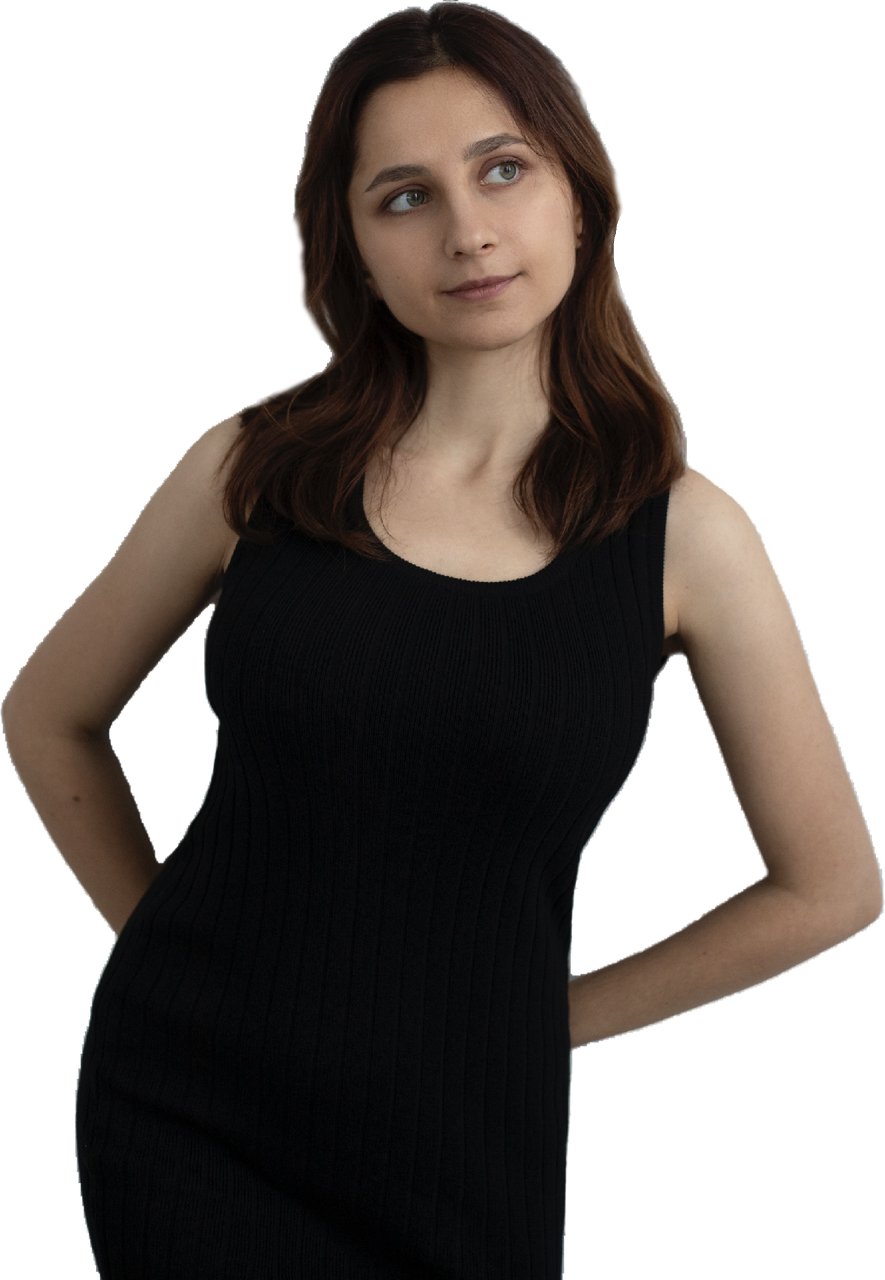
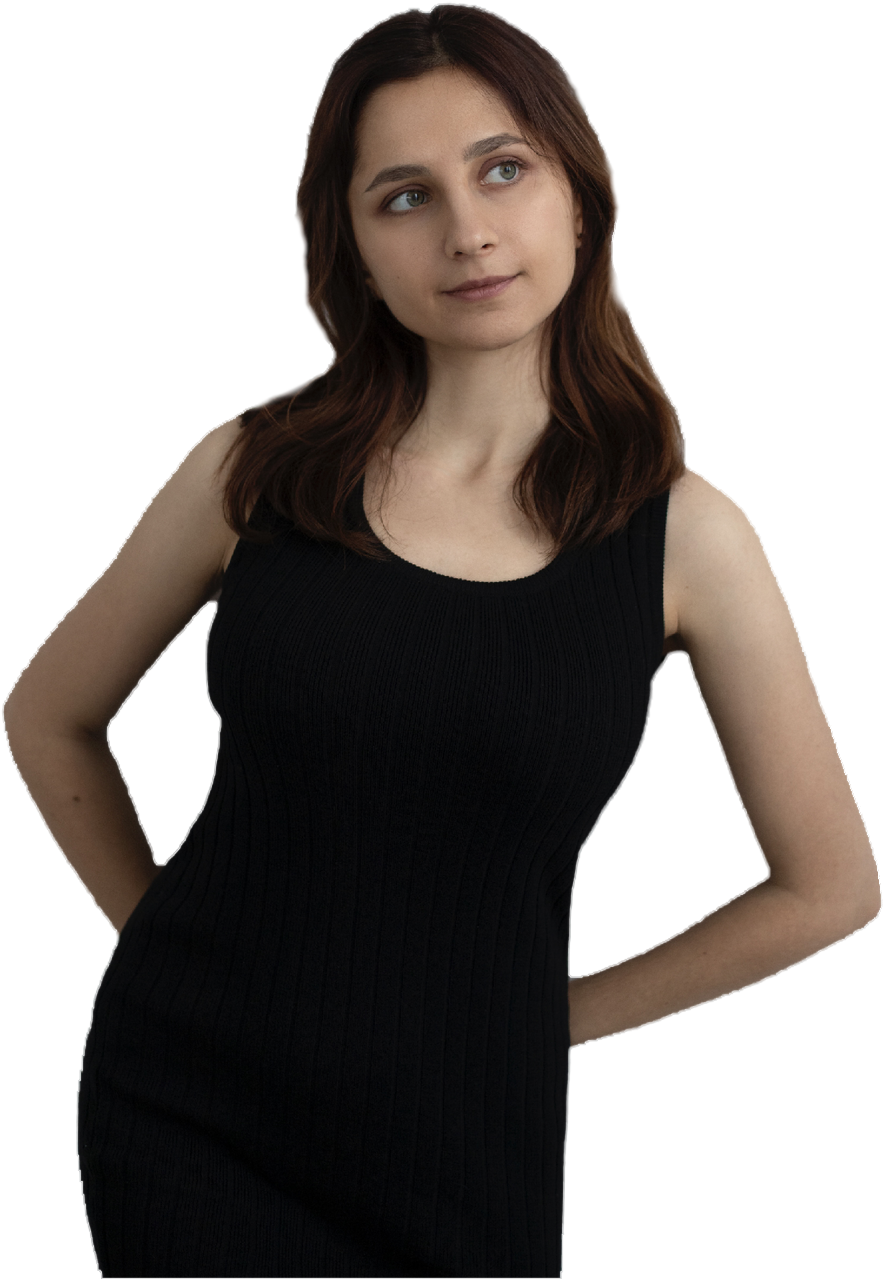
add shodow to hello-photo

diff --git a/src/components/sections/Hello/styles.css b/src/components/sections/Hello/styles.css
@@ -55,13 +55,14 @@
     --width: 423px;
     --height: 612px;
     position: absolute;
-    bottom: 0;
+    bottom: -1px;
     right: 10%;
     width: var(--width);
     height: var(--height);
     background-color: transparent;
     background-image: url('../../../images/front-photo.png');
     background-size: cover;
+    filter: drop-shadow(0 0 10px var(--color-dark-accent));
 }
 
 
